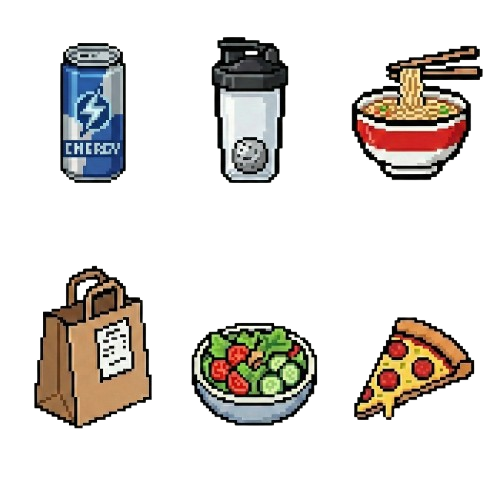
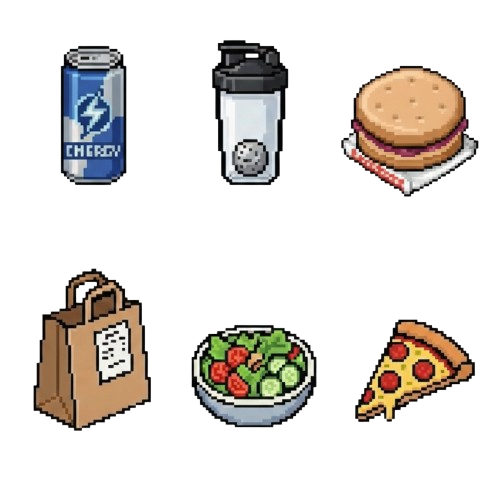
Replace ramen with uncrustable sandwich in fuel options
Update food.png icon, rename "Instant Ramen" to "Uncrustable",
and change emoji from ramen to sandwich.

diff --git a/tech_bro_app/Pocket Bro/Config/Actions/FeedingActions.swift b/tech_bro_app/Pocket Bro/Config/Actions/FeedingActions.swift
@@ -49,10 +49,10 @@ enum FeedingActions {
 
     static let ramen = GameAction(
         id: "feed_ramen",
-        name: "Instant Ramen",
+        name: "Uncrustable",
         category: .feed,
         description: "Classic startup fuel. Cheap and filling.",
-        emoji: "🍜",
+        emoji: "🥪",
         effects: [
             .energy: 15,
             .happiness: 5,
